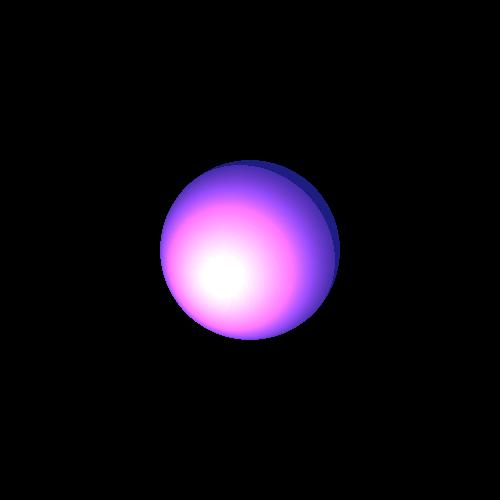
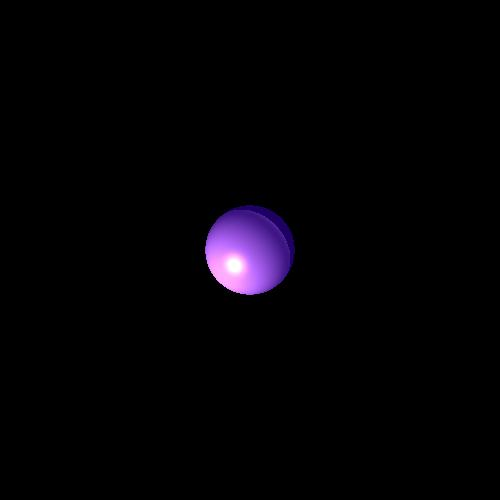
major bug fix with specular calculation

Changed region(s): [[0.3, 0.3, 0.69, 0.69]]

diff --git a/src/unittests/RenderTest.java b/src/unittests/RenderTest.java
@@ -12,7 +12,7 @@ import renderer.Render;
 import scene.Scene;
 
 public class RenderTest {
-	@Test
+	/*@Test
 	public void basicRenderingTest(){
 			int X = 500;
 			int Y = 500;
@@ -39,7 +39,7 @@ public class RenderTest {
 			System.out.println("Finish");
 	
 	}
-	
+	*/
 	@Test
 	public void PointLightTest(){
 			int X = 500;
@@ -47,13 +47,13 @@ public class RenderTest {
 			Date d = new Date();
 			ImageWriter _imageWriter = new ImageWriter("PointLightTest", X, Y, X, Y);
 			Scene _scene = new Scene("s");
-			_scene.setScreenDistance(120);
+			_scene.setScreenDistance(50);
 			_scene.setBackground(new Color(0,0,0));
 			_scene.setCamera(new Camera(new Point3D(0,0,0), new Vector(0,1,0), new Vector(0,0,-1)));
-			_scene.setAmbientLight(new AmbientLight(new Color(30,30,30), 1));
+			_scene.setAmbientLight(new AmbientLight(new Color(0,0,0), 1));
 			
-			_scene.addLight(new PointLight(new Color(255,100,255),new Point3D(-3,-3,0), 1, 0, 0.05));
-			_scene.addGeometry(new Sphere(6, new Point3D(0, 0, -10), new Color(0,0,100), new Material(1,1,2)));
+			_scene.addLight(new PointLight(new Color(255,175,255),new Point3D(-6,-6,0), 1, 0, 0));
+			_scene.addGeometry(new Sphere(10, new Point3D(0,0, -15), new Color(30,0,100), new Material(1,1,10)));
 			
 		  	//_scene.addGeometry(new Triangle(new Point3D(0, -4, -4), new Point3D(4, 0, -4),new Point3D(4, -4, -4), new Color(30,100,30), new Material(1,1,1)));
 		  	//_scene.addGeometry(new Triangle(new Point3D(0, -4, -4), new Point3D(4, 0, -4),new Point3D(4, -4, -4), new Color(30,100,30), new Material(1,1,1)));

diff --git a/src/renderer/Render.java b/src/renderer/Render.java
@@ -76,12 +76,12 @@ public class Render {
 				calcSpecular(ks, l, n, v, nShininess, lightIntensity));
 			}
 		}
-
+		
 		return color;
 	}
 
 	private Color calcSpecular(double ks, Vector l, Vector n, Vector v, int nShininess, Color lightIntensity) {
-		Vector r = l.add(n.multiply(2 * l.dot_product(n)));
+		Vector r = l.add(n.multiply(-2 * l.dot_product(n))).normalization();
 		return new Color(lightIntensity).scale(ks * Math.pow(Math.abs(v.dot_product(r)),nShininess));
 	}
 

diff --git a/src/scene/Scene.java b/src/scene/Scene.java
@@ -21,7 +21,7 @@ public class Scene {
 		this._sceneName = _sceneName;
 		this._background = new Color(100, 100, 100);
 		this._geometries = new Geometries();
-		this._camera = new Camera(new Point3D(0,0,0), new Vector(0,1,0), new Vector(0,0,-1));
+		this._camera = new Camera(new Point3D(0,0,5), new Vector(0,1,0), new Vector(0,0,-1));
 		this._screenDistance = 50;
 		this._lights = new ArrayList<>();
 	}

diff --git a/src/elements/Camera.java b/src/elements/Camera.java
@@ -55,6 +55,7 @@ public class Camera {
 	}
 	
 	// ***************** Operations ******************** // 
+	
 	public Ray constructRayThroughPixel(int Nx, int Ny, int i, int j, double screenDistance, double screenWidth, double screenHeight)
 	{
 		Point3D Pc = this._p0.add(_vTo.multiply(screenDistance));

diff --git a/src/elements/PointLight.java b/src/elements/PointLight.java
@@ -33,7 +33,6 @@ public class PointLight extends Light implements LightSource {
 
 	@Override
 	public Vector getD(Point3D point) {
-	//	return point.subtract(this._position).normalization();
 		return getL(point);
 	}
 
